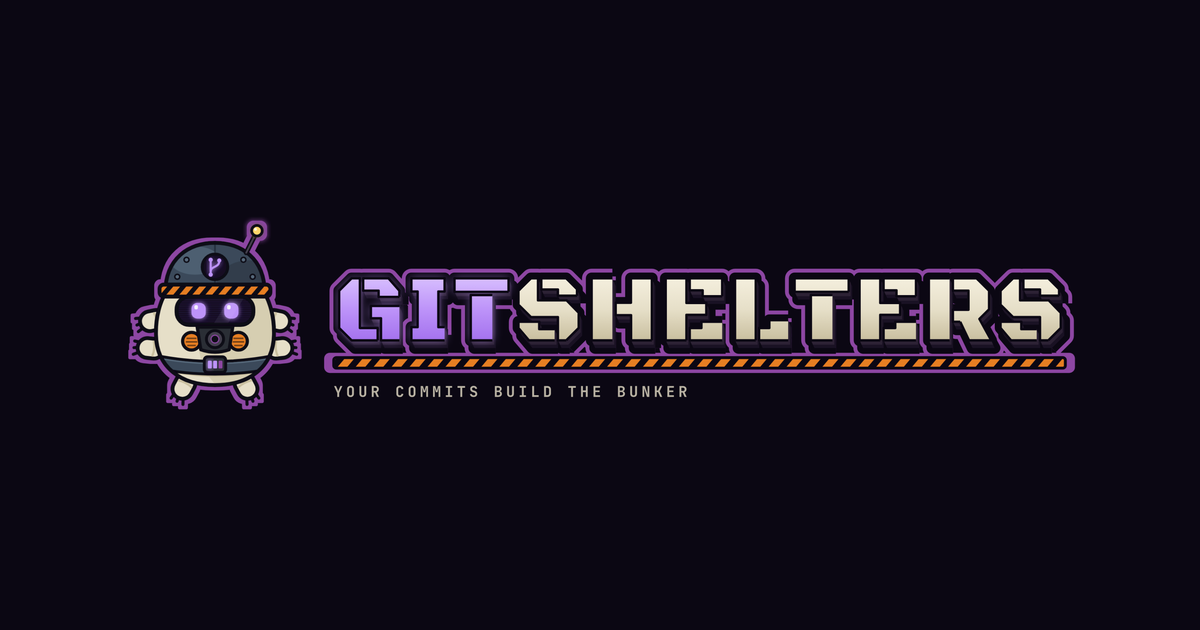
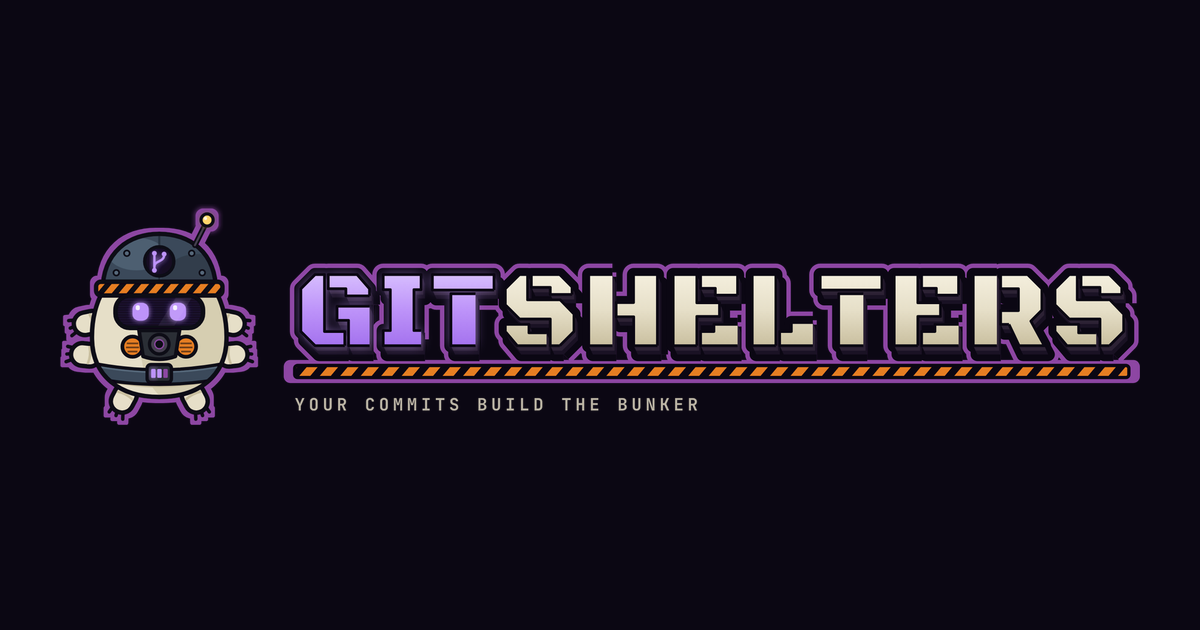
fix(brand): use the transparent lockup and wordmark
The 2x exports carry a solid background that showed as a box on the
landing and the boot screen. The brand files are now built from the
transparent PNG sources, trimmed, and the Open Graph image is rebuilt
from them.

Changed region(s): [[0.0308, 0.3317, 0.9558, 0.6937]]

diff --git a/src/components/landing/Landing.tsx b/src/components/landing/Landing.tsx
@@ -34,7 +34,7 @@ export function Landing() {
 
       <div className="pointer-events-none absolute inset-x-0 top-0 z-10 flex justify-center px-4 pt-10 sm:pt-16">
         <div className="max-w-xl space-y-4 text-center font-mono">
-          <Image src="/brand/lockup.png" alt="Git Shelters" width={1600} height={560} priority className="mx-auto h-auto w-full max-w-sm" />
+          <Image src="/brand/lockup.png" alt="Git Shelters" width={1600} height={327} priority className="mx-auto h-auto w-full max-w-sm" />
           <h1 className="text-xl leading-snug text-[#E6DFC8] sm:text-2xl">
             Your commits build the bunker. Your idle still earns. Your absence is canon.
           </h1>

diff --git a/src/components/intro/Intro.tsx b/src/components/intro/Intro.tsx
@@ -147,7 +147,7 @@ export function Intro() {
     >
       {phase === "boot" ? (
         <div className="route-enter flex max-w-lg flex-col items-center gap-6 text-center font-mono">
-          <Image src="/brand/lockup.png" alt="Git Shelters" width={1600} height={560} priority className="h-auto w-full max-w-lg" />
+          <Image src="/brand/lockup.png" alt="Git Shelters" width={1600} height={327} priority className="h-auto w-full max-w-lg" />
           <p className="text-xs uppercase tracking-[0.3em] text-[#E6DFC8]/50">a game by guibarradas</p>
           <button
             type="button"
